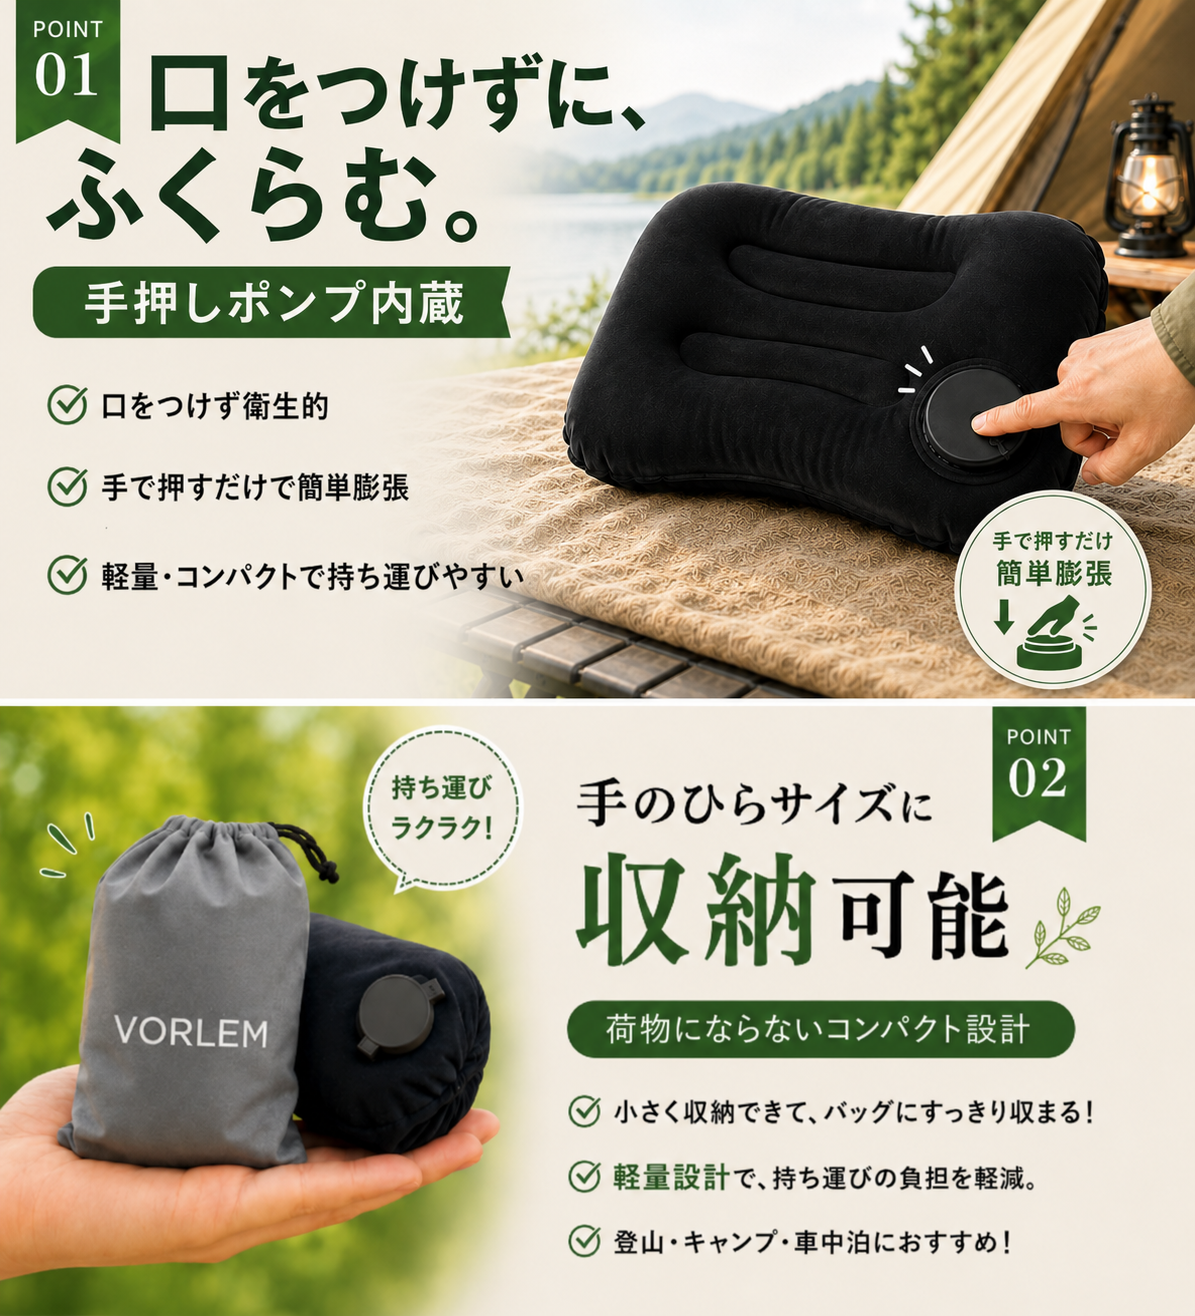
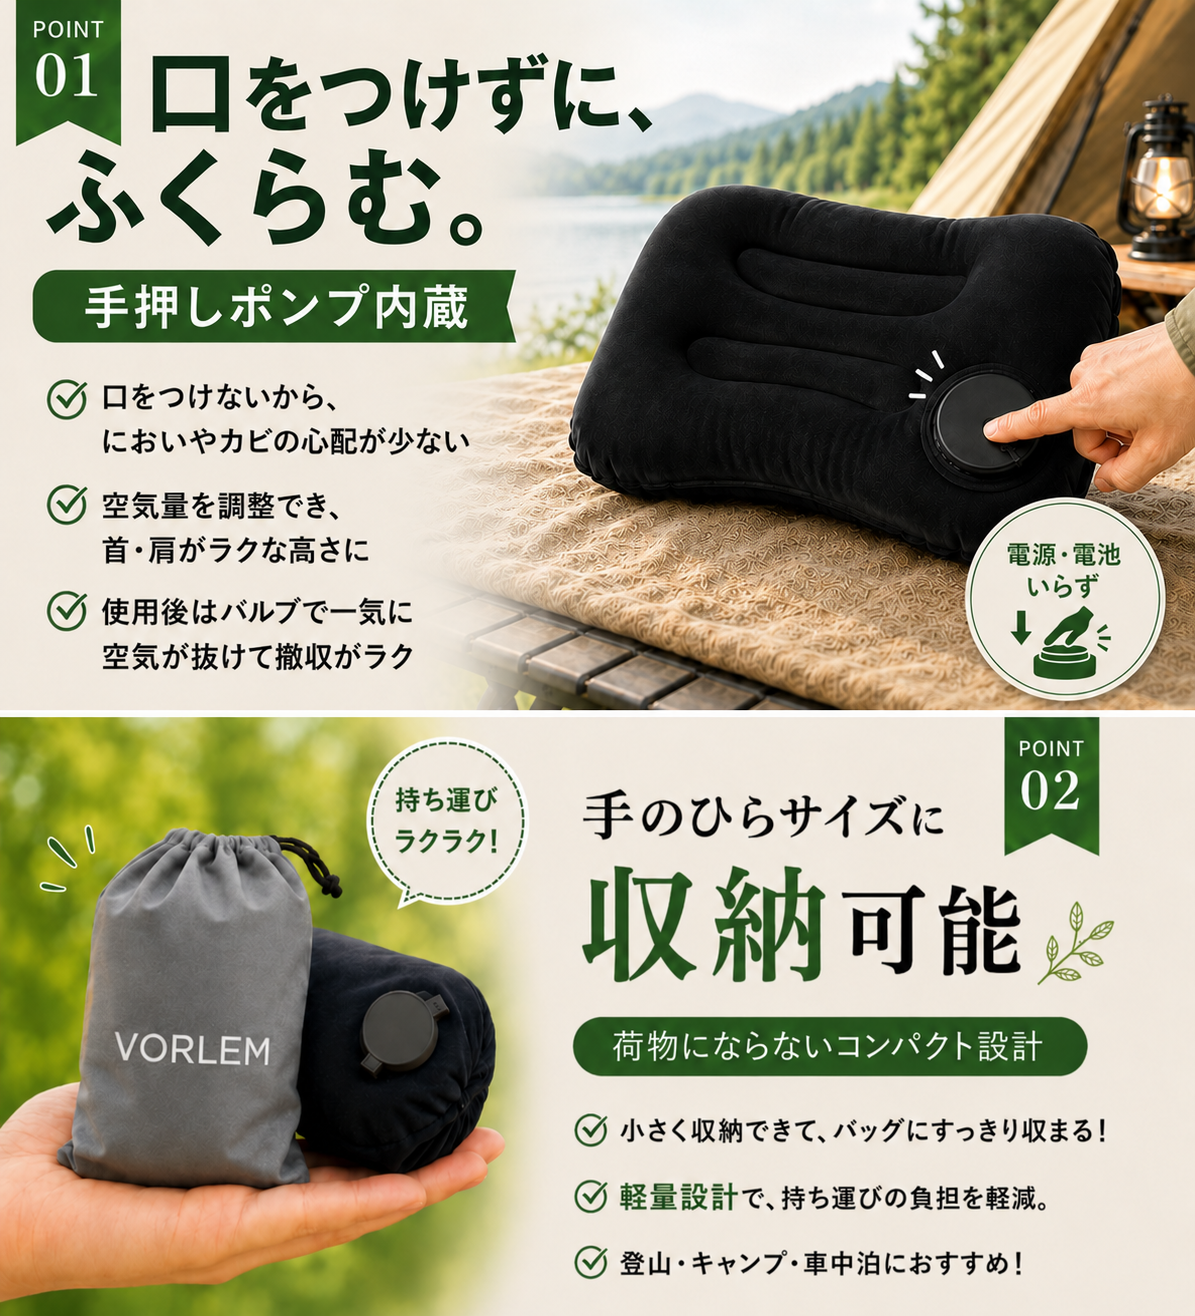
Replace pump storage product image

diff --git a/index.html b/index.html
@@ -64,7 +64,7 @@
       </div>
       <div class="container product-gallery" aria-label="VORLEM キャンプ枕の詳細画像">
         <figure>
-          <img src="images/product-pump-storage.png" alt="手押しポンプ内蔵とコンパクト収納の説明画像">
+          <img src="images/product-pump-storage.png?v=20260621-2" alt="手押しポンプ内蔵とコンパクト収納の説明画像">
         </figure>
         <figure>
           <img src="images/product-comfort.png" alt="首を支える立体設計と肌ざわりの説明画像">

diff --git a/products.html b/products.html
@@ -62,7 +62,7 @@
         </article>
         <div class="product-gallery list-gallery" aria-label="VORLEM キャンプ枕の詳細画像">
           <figure>
-            <img src="images/product-pump-storage.png" alt="手押しポンプ内蔵とコンパクト収納の説明画像">
+            <img src="images/product-pump-storage.png?v=20260621-2" alt="手押しポンプ内蔵とコンパクト収納の説明画像">
           </figure>
           <figure>
             <img src="images/product-comfort.png" alt="首を支える立体設計と肌ざわりの説明画像">